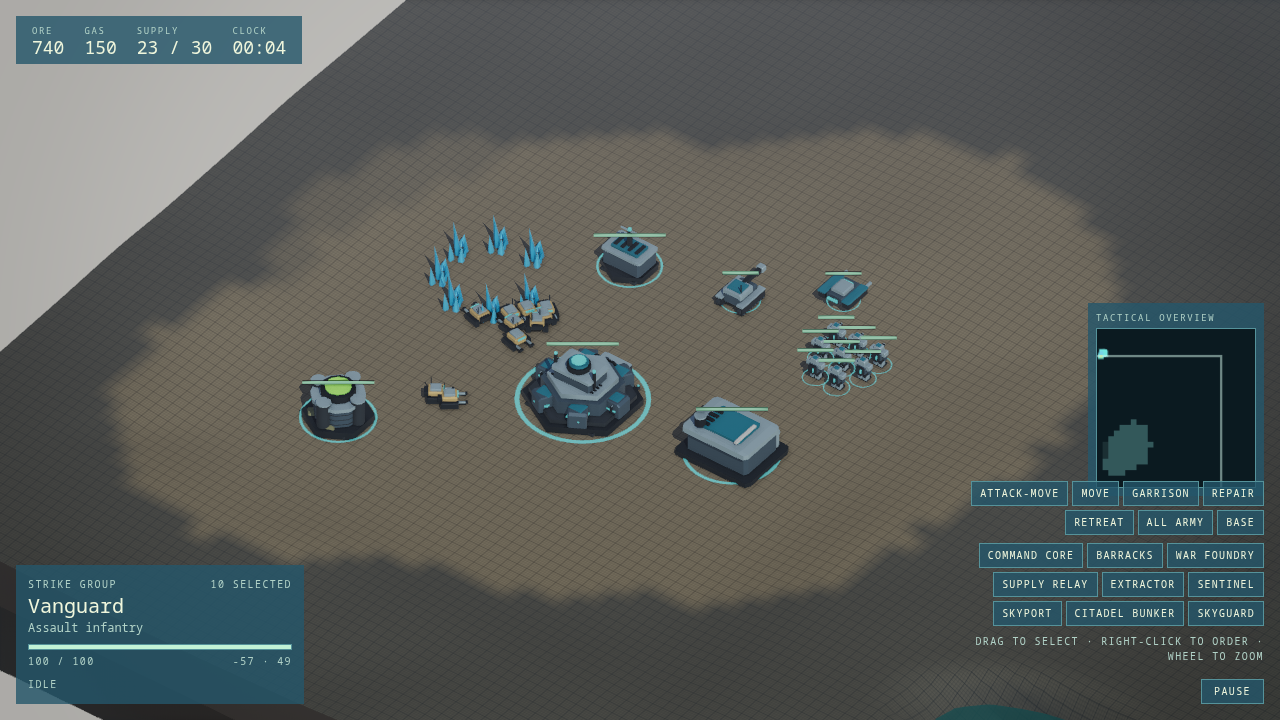
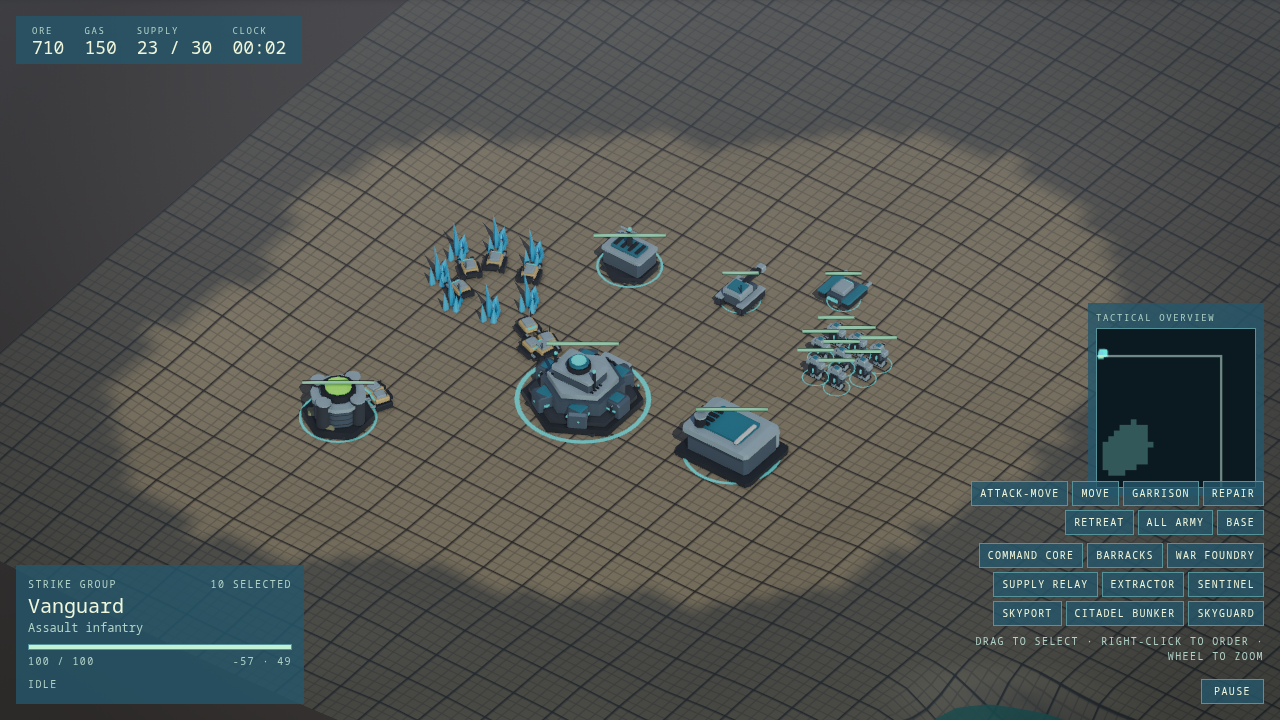
docs(PRD-471): the instructions fit the 100-line gate and the capture is the shipped look
`template.spec.ts` counts the generated CLAUDE.md mirror, which carries two
lines the AGENTS.md does not, so the kit's file lands on 97. The capture is
re-taken from the fixed look: a 4 m grid with a faint 1 m line, and dark
ground past the map's rim where the pale wedge used to be.

`battlefield-performance` keeps the fleet's 60-frame warm-up, which
`template.spec.ts` requires of every template; the boot stays inside its
sample window and the scenario stays red on this host, as recorded.

diff --git a/packages/create-threenative/templates/rts/AGENTS.md b/packages/create-threenative/templates/rts/AGENTS.md
@@ -49,17 +49,14 @@ pnpm build --target desktop
 pnpm test
 ```
 
-`src/sim/` is the whole ruleset — terrain, A*, economy, construction, production, combat, vision and
-a four-state AI — as plain TypeScript with no renderer import, so it runs headless in `pnpm test`
-and replays from a seed. `src/scenes/Play.ts` steps it on a 0.05 s accumulator inside the engine's
-frame and reads every gesture through `ctx.input`; `src/render/` draws it (terrain displaced by the
-simulation's own `terrainHeight`, instanced models per (type, team), selection rings and health
-bars, fog of war in the terrain material); `src/ui/` is the React HUD, the minimap and the command
-panel, where every build, train and formation order starts as a named intent the scene resolves. `playtests/survives.playtest.json` is the durable smoke proof; `rts-orders` (select, gather, move),
-`rts-build`, `rts-train`, `rts-attack`, `rts-ai-attack` and `performance` are the rest. Add a unit
-by adding a row to `TYPES` and a shape to `render/models.ts`: the rules table is the only place a
-cost or a radius is written, and `src/ui/` reads it rather than quoting it. Match the model's
-footprint to the table's `r`, so what you see is what the pathfinder refuses to walk through.
+`src/sim/` is the whole ruleset — terrain, A*, economy, construction, production, combat, vision and a
+four-state AI — plain TypeScript with no renderer import, so it runs headless in `pnpm test` and replays
+from a seed. `src/scenes/Play.ts` steps it on a 0.05 s accumulator inside the engine's frame and reads
+every gesture through `ctx.input`; `src/render/` draws it (terrain displaced by the simulation's own
+`terrainHeight`, instanced models per (type, team), selection rings and health bars, fog of war in the
+terrain material); `src/ui/` is the HUD, the minimap and the command panel, where every order starts as
+a named intent the scene resolves. `playtests/survives.playtest.json` is the durable smoke proof;
+`rts-orders`, `rts-build`, `rts-train`, `rts-attack`, `rts-ai-attack` and `performance` are the rest.
 
 ## Portable authoring contracts
 
@@ -77,14 +74,14 @@ state. Seeded randomness is deterministic only when `defineGame({ seed })` is co
 
 `src/render/sky.ts` makes `assets/sky.jpg` (Poly Haven, CC0) background, environment light and fog
 colour (re-aim `SUN_DIRECTION` when you swap it, and re-tune the fog density: it is set for a 224 m
-map); WebGPU adds a `VirtualShadowNode`. The sky is the light, not the backdrop: the rig is wider
-than the map at its widest zoom, so `terrain.ts` draws a plain under the battlefield (grow it with
-`ZOOM_RANGE.far` or the horizon goes with it) and `materials.ts` tiles the ground grid every 16 m —
-a 4 m line, a faint 1 m one inside each square — because a metre grid crosshatches into wireframe.
-Every model is a custom TSL material, so an instanced
-batch's geometry is what you see — change `render/models.ts`, not the material. `src/render/quality.ts` owns `low`, `medium`, `high`; `isMobile()`
-chooses `low`, otherwise `high`; override with `setupPost(..., { tier: "low" })`. Unknown tiers
-throw and `TN_QUALITY_TIER` reports the source. `pnpm test` proves behavior, never the look.
+map); WebGPU adds a `VirtualShadowNode`. The sky is the light, not the backdrop: the rig is wider than
+the map at its widest zoom, so `terrain.ts` draws a plain under it (grow it with `ZOOM_RANGE.far` or
+the horizon goes with it) and `materials.ts` tiles the ground grid every 16 m — a 4 m line, a faint 1 m
+one inside each square — because a metre grid crosshatches the map into wireframe. Every model is a
+custom TSL material, so an instanced batch's geometry is what you see — change `render/models.ts`, not
+the material. `src/render/quality.ts` owns `low`, `medium`, `high`; `isMobile()` chooses `low`,
+otherwise `high`; override with `setupPost(..., { tier: "low" })`. Unknown tiers throw and
+`TN_QUALITY_TIER` reports the source. `pnpm test` proves behavior, never the look.
 
 Two loading conventions come from `@threenative/core`, not from your own loops: `loadAll(items, load)` fetches six at a time and returns results **in the input's order** (a pool that pushes returns completion order, so a positional pick lands a different asset every load), and `addInSlices(objects, (object) => ctx.add(object))` attaches 256 per presented frame so hundreds of objects never land in one long frame; override `concurrency`/`sliceSize`, pass `while: () => alive` to stop a torn-down scene without throwing, and `marker: false` silences `TN_LOAD_ALL`/`TN_ADD_SLICES` but never the measurement.
 

diff --git a/packages/create-threenative/templates/rts/CLAUDE.md b/packages/create-threenative/templates/rts/CLAUDE.md
@@ -51,17 +51,14 @@ pnpm build --target desktop
 pnpm test
 ```
 
-`src/sim/` is the whole ruleset — terrain, A*, economy, construction, production, combat, vision and
-a four-state AI — as plain TypeScript with no renderer import, so it runs headless in `pnpm test`
-and replays from a seed. `src/scenes/Play.ts` steps it on a 0.05 s accumulator inside the engine's
-frame and reads every gesture through `ctx.input`; `src/render/` draws it (terrain displaced by the
-simulation's own `terrainHeight`, instanced models per (type, team), selection rings and health
-bars, fog of war in the terrain material); `src/ui/` is the React HUD, the minimap and the command
-panel, where every build, train and formation order starts as a named intent the scene resolves. `playtests/survives.playtest.json` is the durable smoke proof; `rts-orders` (select, gather, move),
-`rts-build`, `rts-train`, `rts-attack`, `rts-ai-attack` and `performance` are the rest. Add a unit
-by adding a row to `TYPES` and a shape to `render/models.ts`: the rules table is the only place a
-cost or a radius is written, and `src/ui/` reads it rather than quoting it. Match the model's
-footprint to the table's `r`, so what you see is what the pathfinder refuses to walk through.
+`src/sim/` is the whole ruleset — terrain, A*, economy, construction, production, combat, vision and a
+four-state AI — plain TypeScript with no renderer import, so it runs headless in `pnpm test` and replays
+from a seed. `src/scenes/Play.ts` steps it on a 0.05 s accumulator inside the engine's frame and reads
+every gesture through `ctx.input`; `src/render/` draws it (terrain displaced by the simulation's own
+`terrainHeight`, instanced models per (type, team), selection rings and health bars, fog of war in the
+terrain material); `src/ui/` is the HUD, the minimap and the command panel, where every order starts as
+a named intent the scene resolves. `playtests/survives.playtest.json` is the durable smoke proof;
+`rts-orders`, `rts-build`, `rts-train`, `rts-attack`, `rts-ai-attack` and `performance` are the rest.
 
 ## Portable authoring contracts
 
@@ -79,14 +76,14 @@ state. Seeded randomness is deterministic only when `defineGame({ seed })` is co
 
 `src/render/sky.ts` makes `assets/sky.jpg` (Poly Haven, CC0) background, environment light and fog
 colour (re-aim `SUN_DIRECTION` when you swap it, and re-tune the fog density: it is set for a 224 m
-map); WebGPU adds a `VirtualShadowNode`. The sky is the light, not the backdrop: the rig is wider
-than the map at its widest zoom, so `terrain.ts` draws a plain under the battlefield (grow it with
-`ZOOM_RANGE.far` or the horizon goes with it) and `materials.ts` tiles the ground grid every 16 m —
-a 4 m line, a faint 1 m one inside each square — because a metre grid crosshatches into wireframe.
-Every model is a custom TSL material, so an instanced
-batch's geometry is what you see — change `render/models.ts`, not the material. `src/render/quality.ts` owns `low`, `medium`, `high`; `isMobile()`
-chooses `low`, otherwise `high`; override with `setupPost(..., { tier: "low" })`. Unknown tiers
-throw and `TN_QUALITY_TIER` reports the source. `pnpm test` proves behavior, never the look.
+map); WebGPU adds a `VirtualShadowNode`. The sky is the light, not the backdrop: the rig is wider than
+the map at its widest zoom, so `terrain.ts` draws a plain under it (grow it with `ZOOM_RANGE.far` or
+the horizon goes with it) and `materials.ts` tiles the ground grid every 16 m — a 4 m line, a faint 1 m
+one inside each square — because a metre grid crosshatches the map into wireframe. Every model is a
+custom TSL material, so an instanced batch's geometry is what you see — change `render/models.ts`, not
+the material. `src/render/quality.ts` owns `low`, `medium`, `high`; `isMobile()` chooses `low`,
+otherwise `high`; override with `setupPost(..., { tier: "low" })`. Unknown tiers throw and
+`TN_QUALITY_TIER` reports the source. `pnpm test` proves behavior, never the look.
 
 Two loading conventions come from `@threenative/core`, not from your own loops: `loadAll(items, load)` fetches six at a time and returns results **in the input's order** (a pool that pushes returns completion order, so a positional pick lands a different asset every load), and `addInSlices(objects, (object) => ctx.add(object))` attaches 256 per presented frame so hundreds of objects never land in one long frame; override `concurrency`/`sliceSize`, pass `while: () => alive` to stop a torn-down scene without throwing, and `marker: false` silences `TN_LOAD_ALL`/`TN_ADD_SLICES` but never the measurement.
 
